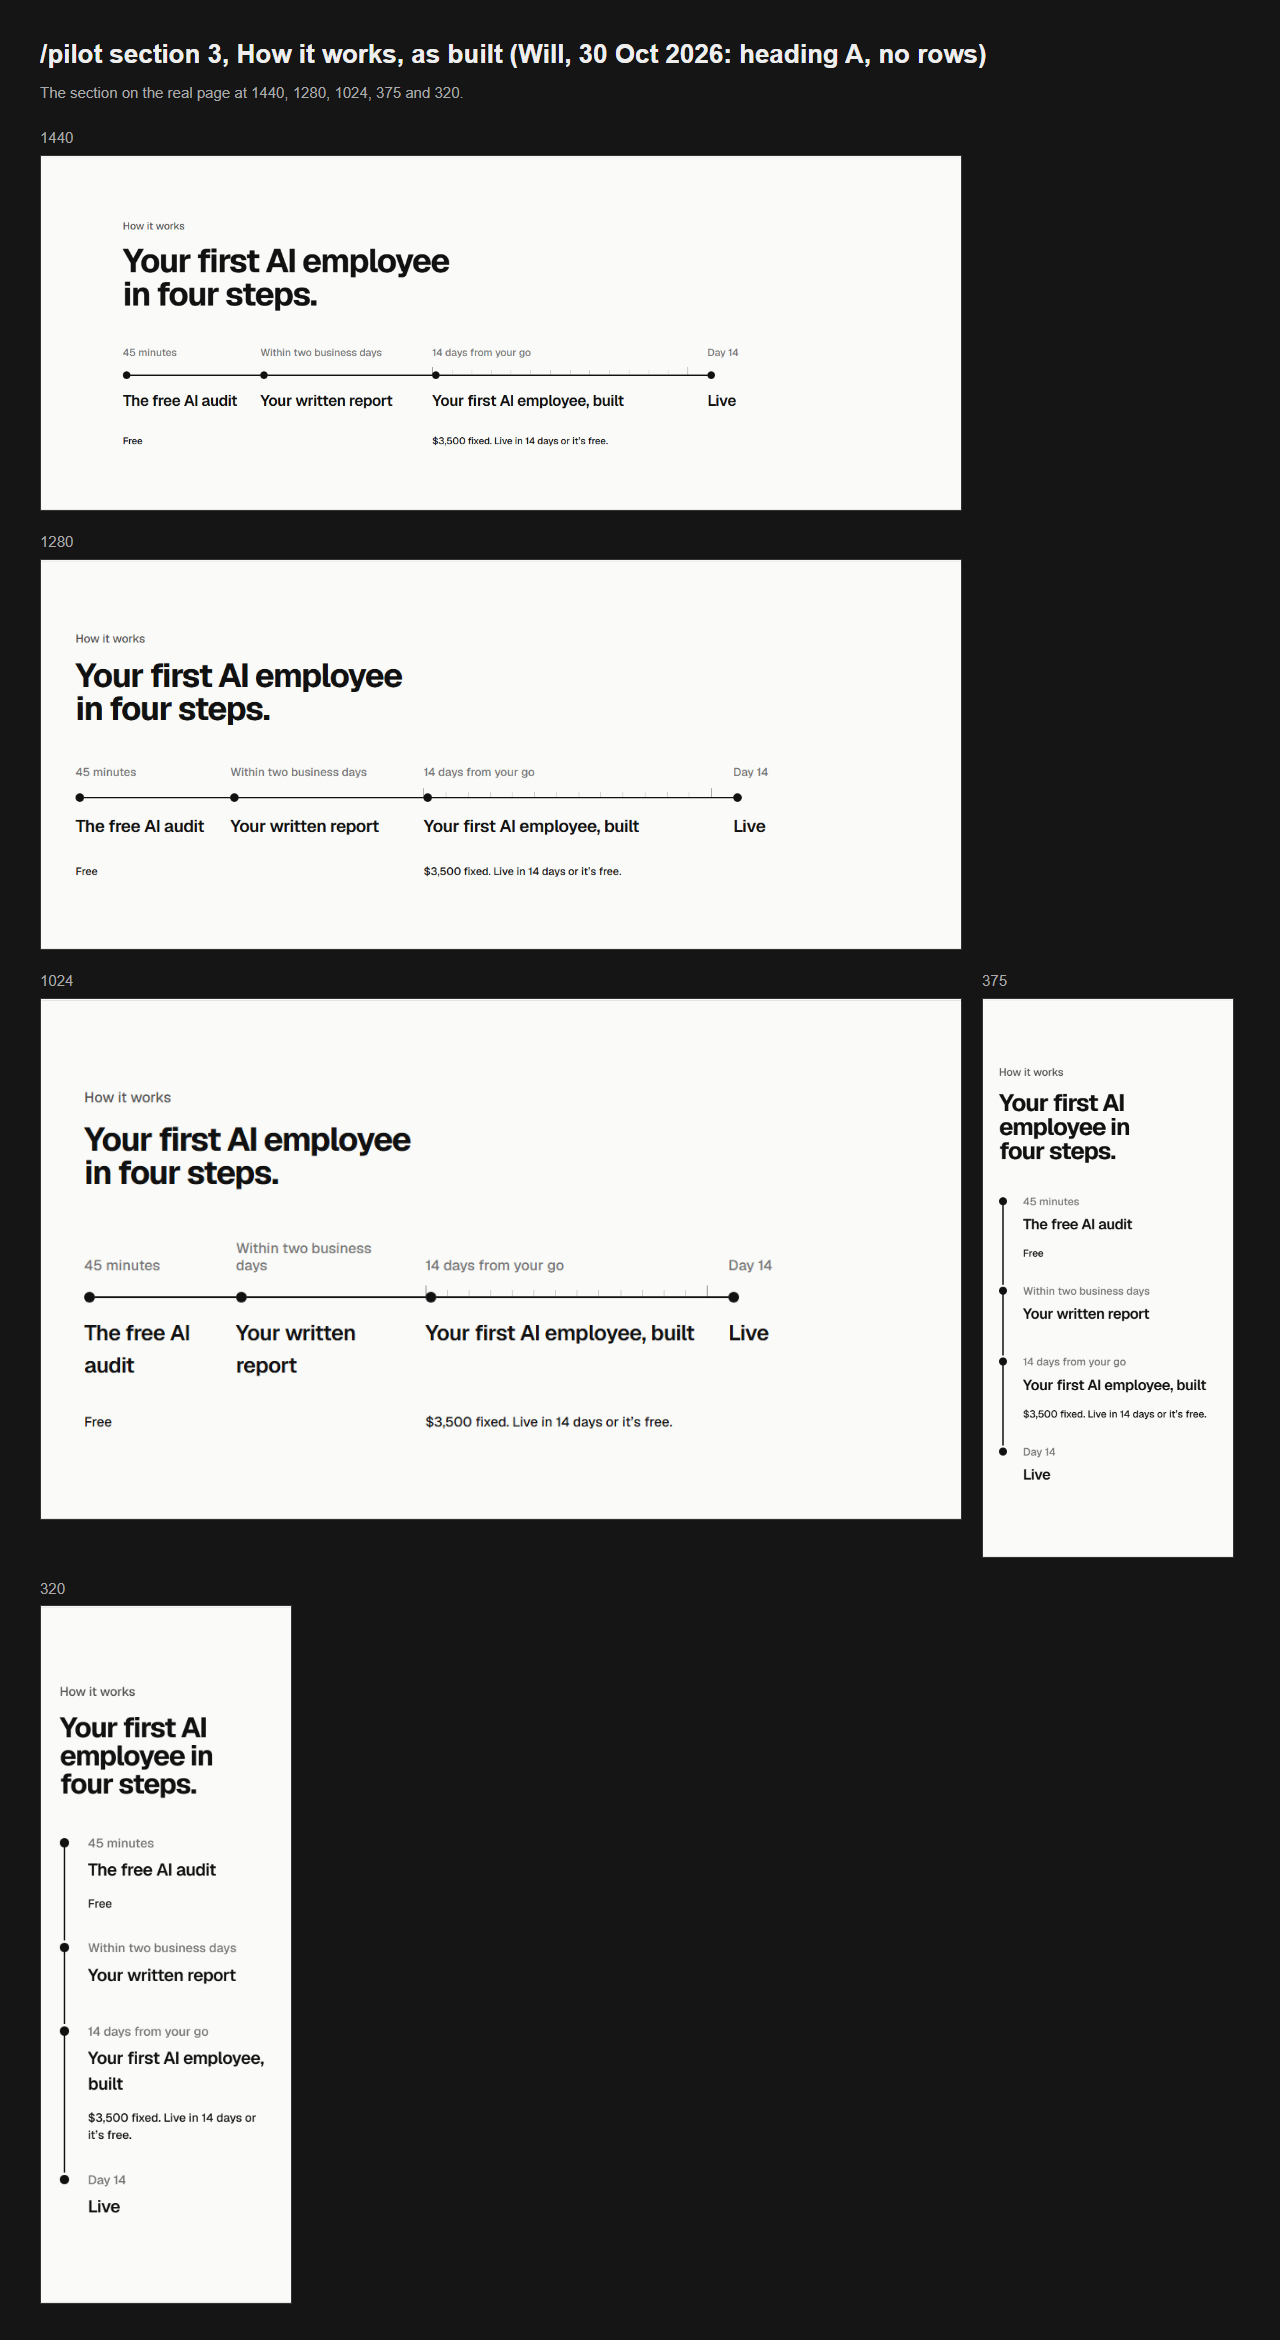
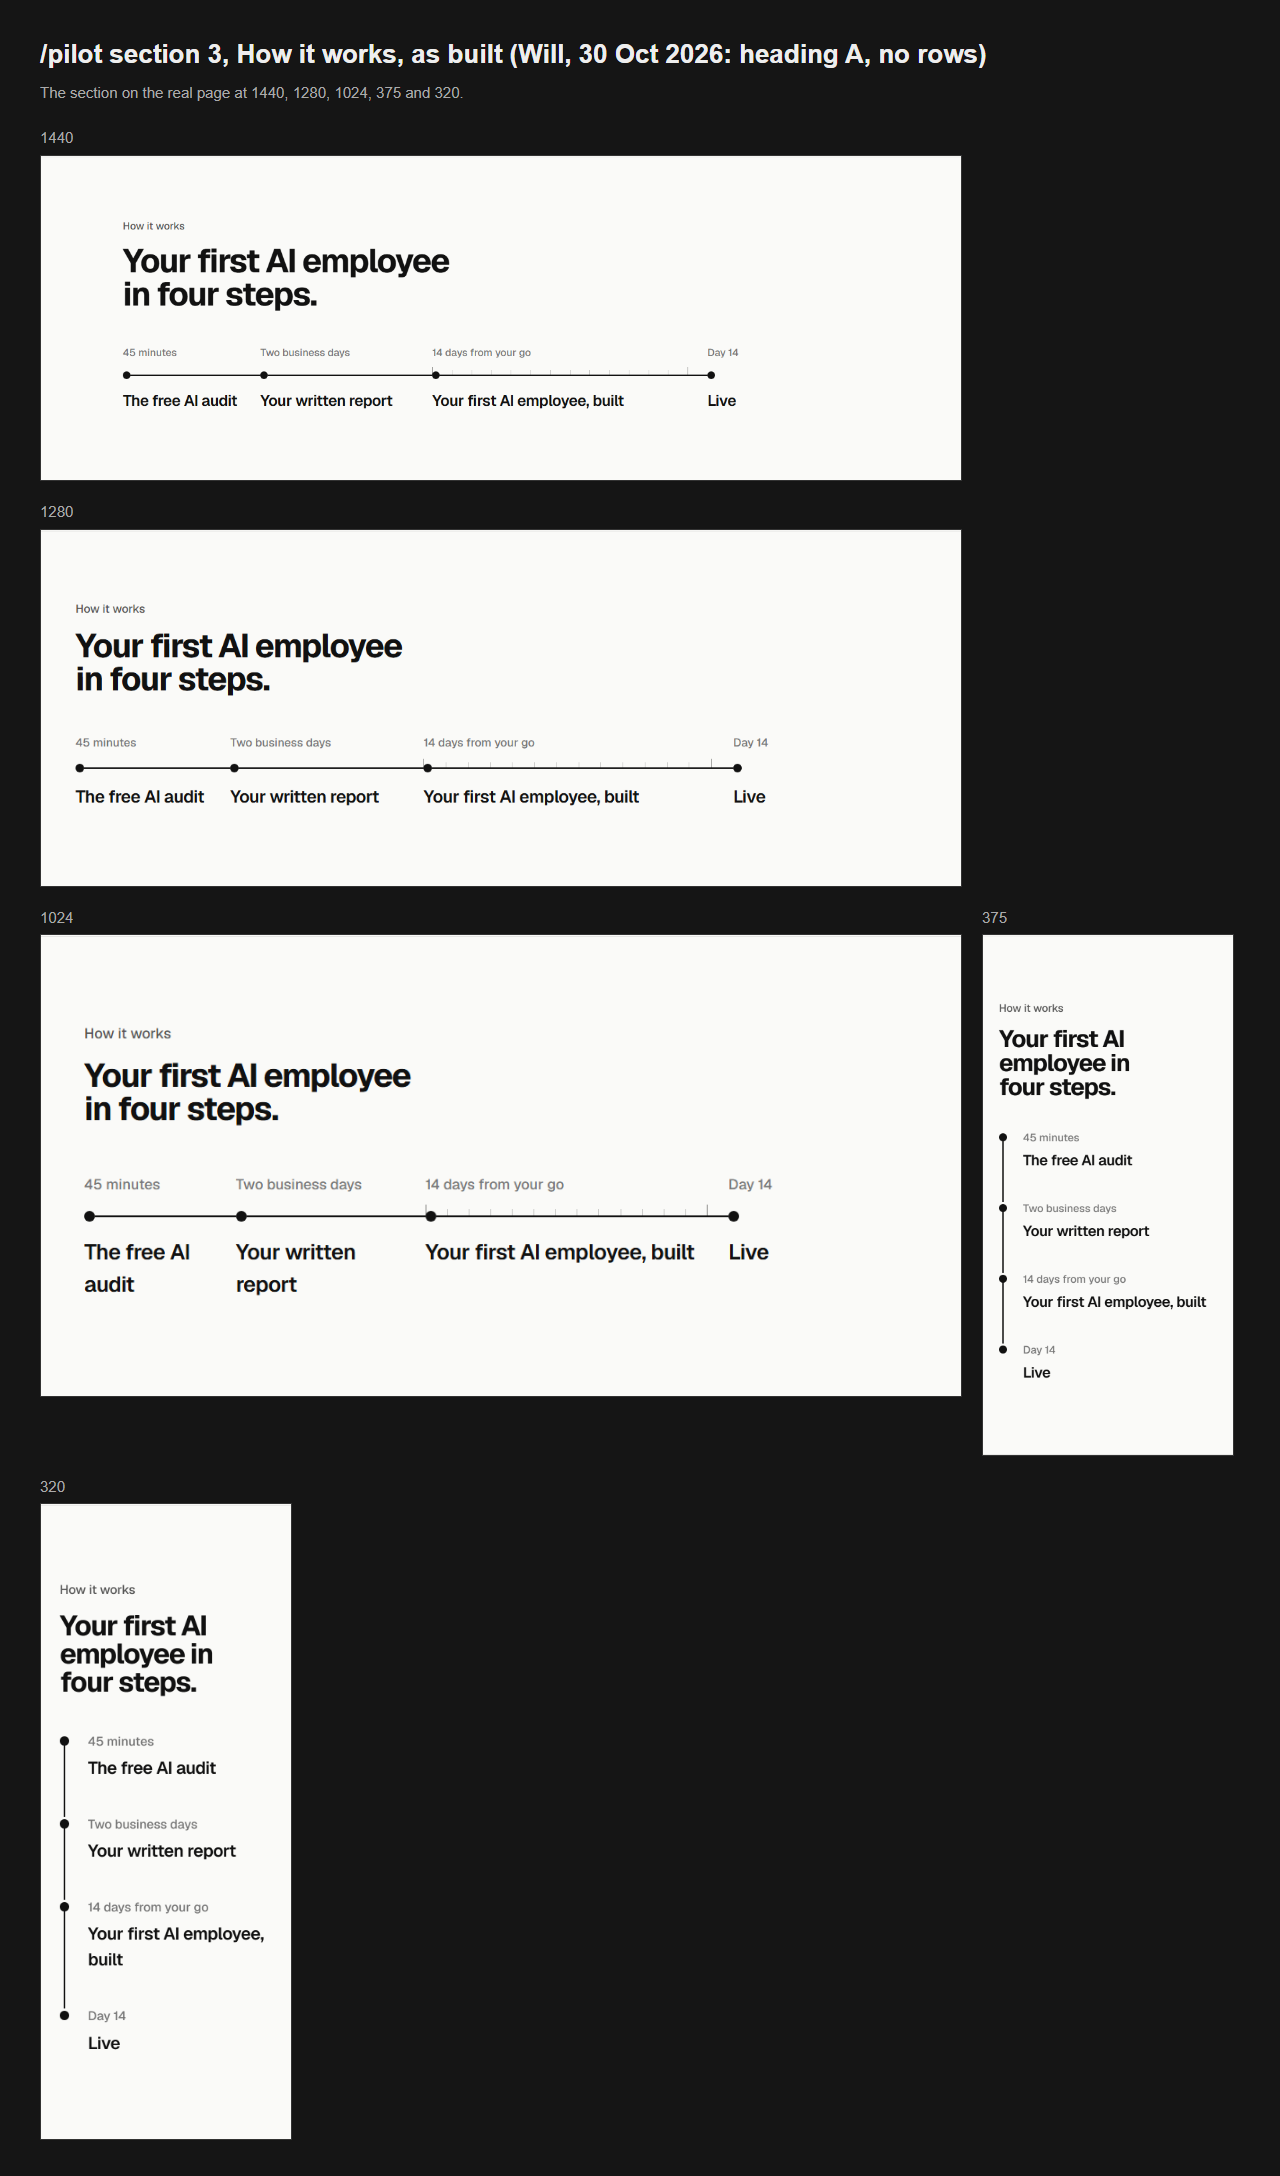
pilot how it works: no prices on the stops, two business days

diff --git a/herbertai-website/src/app/pilot/page.js b/herbertai-website/src/app/pilot/page.js
@@ -2,7 +2,6 @@ import AuditForm from '../components/site/AuditForm'
 import AfterPilot from '../components/site/AfterPilot'
 import { SAMPLE_TITLE, SAMPLE_JOBS, SAMPLE_TOTAL } from '../components/site/sample-audit'
 import { OG_IMAGE } from '@/app/components/site/og'
-import { RUNGS } from '@/app/components/site/shared'
 import { JsonLd, breadcrumbs, service, LADDER } from '@/app/components/site/schema'
 
 export const metadata = {
@@ -91,15 +90,14 @@ const TERMS = [
 
 // How it works as a timeline: one line from the audit to day 14, the build
 // marked in fourteen ticks (Will, 22 Oct 2026, layout "1"). Each stop is its
-// time and its title; the prices are the homepage's own (RUNGS) and on laptops
-// sit on one level at the foot of their stops (Will, 22 Oct 2026, price "1").
-// The rows under the stops went on 30 Oct 2026 (Will: "i think we remove the
-// lines under the timeline headings altogether"), with the heading "Your first
-// AI employee in four steps." from that day's line test.
+// time and its title and nothing else: the rows under the stops went on 30 Oct
+// 2026 (Will: "i think we remove the lines under the timeline headings
+// altogether") and the two prices with them ("i think we remove the free and
+// the 3500 fixed as well"); the prices stay in section 5 and the questions.
 const STEPS = [
-  { when: '45 minutes', title: 'The free AI audit', price: RUNGS[0].price },
-  { when: 'Within two business days', title: 'Your written report' },
-  { when: '14 days from your go', title: 'Your first AI employee, built', build: true, price: RUNGS[1].price },
+  { when: '45 minutes', title: 'The free AI audit' },
+  { when: 'Two business days', title: 'Your written report' },
+  { when: '14 days from your go', title: 'Your first AI employee, built', build: true },
   { when: 'Day 14', title: 'Live' },
 ]
 
@@ -161,7 +159,6 @@ function Timeline() {
             <span aria-hidden className="absolute left-0 top-[3px] w-3 h-3 rounded-full bg-[#111]" />
             <p className="text-[16px] font-medium text-[#777] leading-[1.2] mb-2">{st.when}</p>
             <h3 className="text-[22px] font-semibold tracking-[-0.02em] mb-2.5">{st.title}</h3>
-            {st.price && <p className="mt-4 text-[15px] font-medium text-[#111]">{st.price}</p>}
           </li>
         ))}
       </ol>
@@ -182,8 +179,7 @@ function Timeline() {
             </div>
             <div className="min-w-0 flex flex-col pt-4 pr-7">
               <h3 className="text-[24px] font-semibold tracking-[-0.02em] mb-2.5">{st.title}</h3>
-                {st.price && <p className="mt-auto pt-6 text-[15px] font-medium text-[#111]">{st.price}</p>}
-            </div>
+              </div>
           </li>
         ))}
       </ol>

diff --git a/herbertai-website/docs/design/design-pass-site-2026-09.md b/herbertai-website/docs/design/design-pass-site-2026-09.md
@@ -2356,7 +2356,7 @@ memory records the third slip. From here /pilot runs section by section:
 |---|---|---|---|---|---|---|
 | 1. Hero with the form | [x] | [x] | [x] | [x] | [x] | Done 22 Oct 2026: heading, label, intro, terms, the form side, spacing (fills the first screen, card level with the heading), the phone layout (a jump button under the intro) |
 | 2. The written page | [x] | [x] | [x] | [x] | [x] | Done 22 Oct 2026: the live sheet, text centred against it, no line under the heading, label kept, the link under the sheet on phones |
-| 3. How it works | [x] | [x] | [x] | [x] | [x] | Done 30 Oct 2026: heading "Your first AI employee in four steps." and no rows under the stops (Will: "remove the lines under the timeline headings altogether"); times, titles and the two prices remain |
+| 3. How it works | [x] | [x] | [x] | [x] | [x] | Done 30 Oct 2026: "Your first AI employee in four steps." over four stops, each its time and its title only (no rows, no prices), the second stop "Two business days" |
 | 4. What it fixes | [x] | [ ] | [ ] | [x] | [x] | Details pass 27 Oct 2026 ("1,1,1") on Will’s word with no options step; not signed off (Will, 30 Oct 2026: "section 4 isnt done"); what is missing is his to say |
 | 5. After the pilot | [x] | [x] | [x] | [x] | [~] | B built 30 Oct 2026 (Will: "B, dashboard"): the stages beside the dashboard; details 1 to 4 drawn, detail 5 (the heading) kept unless a line test is asked for; awaiting Will’s picks |
 | 6. Questions | [ ] | [ ] | [ ] | [x] | [ ] | Built from the skeleton only |
@@ -3003,3 +3003,11 @@ and in section 5. One consequence for the charter’s rule 8: with the row
 the questions. Verified at 1440, 1280, 1024, 375 and 320, motion on and off: no
 overflow, no page or console errors; eslint clean. As-built sheet:
 `design-pass-site-2026-10-30-pilot-how-built.png`. Section 3 is done.
+Will (30 Oct 2026): "i think we remove the free and the 3500 fixed as well". The two prices go from the stops too; each stop is its time and its title.
+Will (30 Oct 2026): "and have two business days instead of within". The second stop reads "Two business days".
+Built: the two prices gone from the stops (the 22 Oct detail about prices on
+one level is moot), the second stop’s time "Two business days", the page’s
+ladder import dropped as unused. The timeline is four times and four titles.
+Verified at 1440, 1280, 1024, 375 and 320, motion on and off: no overflow, no
+page or console errors; eslint clean. Sheet refreshed:
+`design-pass-site-2026-10-30-pilot-how-built.png`.

diff --git a/herbertai-website/docs/design/CHARTER.md b/herbertai-website/docs/design/CHARTER.md
@@ -232,9 +232,9 @@ moves. As built, 30 Oct 2026, numbered on the page in
    report at size, an example practice’s three jobs with hours and cost,
    "Read the whole sample". Done 22 and 27 Oct.
 3. How it works: "Your first AI employee in four steps." and the timeline, 45
-   minutes, within two business days, 14 days from your go, day 14, each stop
-   its time and its title, the two prices level at the foot, no rows (Will, 30
-   Oct). Layout 23 Oct, words 30 Oct.
+   minutes, two business days, 14 days from your go, day 14, each stop its
+   time and its title and nothing else (Will, 30 Oct: no rows, no prices).
+   Layout 23 Oct, words 30 Oct.
 4. What it fixes: "The jobs everyone hates doing." and six jobs with a sentence
    each. Details pass 27 Oct with no options step; not signed off (Will, 30
    Oct: "section 4 isnt done").
